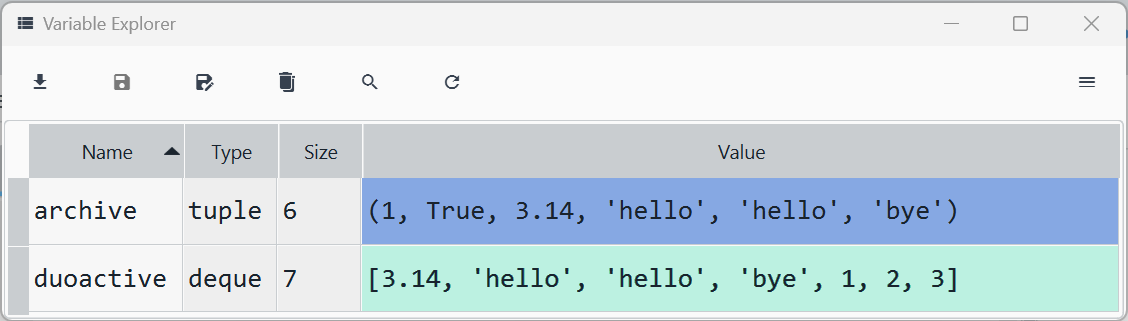
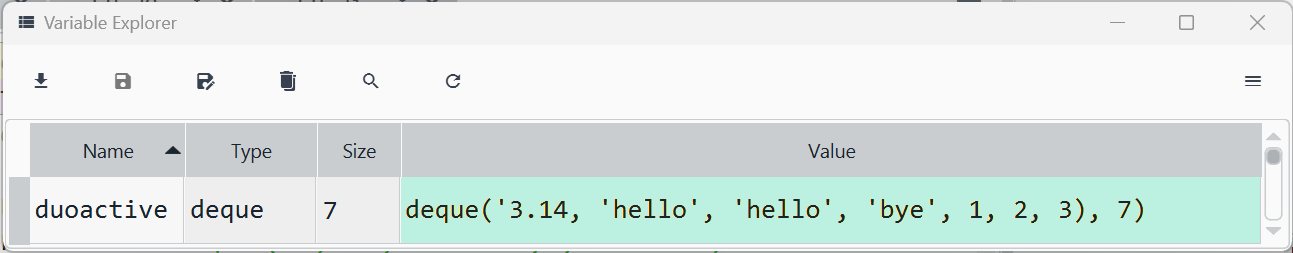
Collections Module Draft

diff --git a/008_collections_module/readme.md b/008_collections_module/readme.md
@@ -18,7 +18,7 @@ The most important classes are listed. The three in lower case were orginally de
 
 ## namedtuple
 
-A ```tuple``` can be conceptualised as an immutable archive of records. Each record only has a numeric index associated with the value and doesn't have a field name to describe what the value is. For example in the following tuple it is hard to distinguish what field is what:
+A ```tuple``` can be conceptualised as an immutable archive of records. Each record only has a numeric index associated with the value and doesn't have a field name to describe what the value is. Foar example in the following tuple it is hard to distinguish what field is what:
 
 ```
 (4, 3, 2023)
@@ -284,11 +284,32 @@ DateTuple(**d1)
 
 ![img_033](./images/img_033.png)
 
-The Spyder Variable Explorer, doesn't show the field names in a ```NamedTuple``` subclass and instead just displays it as an ordinary ```tuple```:
+Unfortunately the Spyder Variable Explorer doesn't fully support the ```collections``` module. The collapsed view shows the generic ```DateTuple``` object:
 
 ![img_034](./images/img_034.png)
 
+It should be updated to reflect the formal string which can be seen when an instance is shown in a cell output:
+
+```
+today
+```
+
+Recall the formal string representation uses the ```__repr__``` data model identifier and the informal string representation uses the ```__str__``` data model identifier which are more typically invoked using Pythons ```builtins``` function ```repr``` and ```str``` respectively:
+
+```
+repr(today)
+str(today)
+```
+
+![img_112](./images/img_112.png)
+
+The expanded view doesn't show the field names in a ```NamedTuple``` subclass and instead just displays it as an ordinary ```tuple```:
+
+![img_113](./images/img_113.png)
+
 It should look like the following:
+
+![img_117](./images/img_117.png)
 
 ![img_035](./images/img_035.png)
 
@@ -317,7 +338,31 @@ duoactive = deque(archive, 7)
 
 ![img_038](./images/img_038.png)
 
-The ```deque``` also doesn't display in the Variable Explorer. It can be conceptualised essentially as a ```list``` with some minor modifications:
+Unfortunately the Spyder Variable Explorer doesn't fully support the ```collections``` module. The collapsed view looks like the following:
+
+![img_114](./images/img_114.png)
+
+The expanded view doesn't show the ```deque```:
+
+![img_116](./images/img_116.png)
+
+It should be updated to reflect the formal string which can be seen when an instance is shown in a cell output:
+
+```
+duoactive
+```
+
+Recall the formal string representation uses the ```__repr__``` data model identifier and the informal string representation uses the ```__str__``` data model identifier which are more typically invoked using Pythons ```builtins``` function ```repr``` and ```str``` respectively:
+
+```
+repr(duoactive)
+str(duoactive)
+```
+
+![img_115](./images/img_115.png)
+
+
+It should be conceptualised essentially as a ```list``` with some minor modifications:
 
 ![img_039](./images/img_039.png)
 
@@ -495,7 +540,7 @@ If the directory function ```dir``` is used, all the identifiers are identical t
 pprint(dir(mapping), compact=True)
 ```
 
-![img_066](./images/img_066.png)
+![img_069](./images/img_069.png)
 
 When attempting to access a missing key, the ```__missing__``` data model is invoked. In the ```dict``` class, the missing ```__datamodel__``` method is not defined so a ```KeyError``` is given. In the ```defaultdict```, ```__missing__``` calls the provided ```default_factory``` callable generating a new ```key: value``` pair.
 
@@ -509,17 +554,34 @@ mapping['blue'] = '#0070C0'
 
 ![img_066](./images/img_066.png)
 
-![img_070](./images/img_070.png)
-
-![img_071](./images/img_071.png)
-
 When a key is indexed that does not exist, the ```default_factory``` callable is used. For example: 
 
 ```
 mapping['yellow']
 ```
 
-![img_072](./images/img_072.png)
+Unfortunately the Spyder Variable Explorer doesn't fully support the ```collections``` module. The collapsed view shows the generic ```defaultdict``` object:
+
+![img_070](./images/img_070.png)
+
+It should be updated to reflect the formal string which can be seen when an instance is shown in a cell output:
+
+```
+mapping
+```
+
+Recall the formal string representation uses the ```__repr__``` data model identifier and the informal string representation uses the ```__str__``` data model identifier which are more typically invoked using Pythons ```builtins``` function ```repr``` and ```str``` respectively:
+
+```
+repr(mapping)
+str(mapping)
+```
+
+![img_118](./images/img_118.png)
+
+![img_071](./images/img_071.png)
+
+The expanded view displays a regular ```dict```, this like the regular ```dict``` should be shown in insertion order:
 
 ![img_073](./images/img_073.png)
 
@@ -541,8 +603,6 @@ mapping['b'] = ['bananas', 'beetroot']
 ```
 
 ![img_075](./images/img_075.png)
-
-![img_076](./images/img_076.png)
 
 ![img_077](./images/img_077.png)
 
@@ -596,8 +656,6 @@ mapping['blue'] = '#0070C0'
 
 ![img_083](./images/img_083.png)
 
-![img_084](./images/img_084.png)
-
 ![img_085](./images/img_085.png)
 
 When a key is indexed that does not exist, the ```default_factory``` callable is used. For example: 
@@ -650,33 +708,234 @@ mapping = defaultdict(lambda: '#000000',
 
 ![img_092](./images/img_092.png)
 
-![img_093](./images/img_093.png)
-
-![img_094](./images/img_094.png)
-
-The formal string representation ```repr``` uses the data model method ```__repr__``` and the informal string representation uses the ```__str__``` data model methods:
+The formal string representation and the informal string representation can be returned using:
 
 ```
 repr(mapping)
 str(mapping)
 ```
 
-They widely follow this format:
-
 ![img_095](./images/img_095.png)
+
+For a ```lambda``` expression these give details about where the function is stored in memory opposed to the ```lambda``` expression itself which would be more useful.
 
 ## Counter
 
+In Python it is quite common to count the number of occurrences in an iterable. For example:
+
+```
+text = ['hello world!']
+```
+
+![img_096](./images/img_096.png)
+
+Conventionally this is done by casting text into a ```set```, recalling a ```set``` can only contain unique values:
+
+```
+unique = set(text)
+```
+
+![img_097](./images/img_097.png)
+
+An initial value of ```0``` is used:
+
+```
+value = 0
+```
+
+![img_098](./images/img_098.png)
+
+And a dictionary is instantiated using the alternative constructor: 
+
+```
+frequency = dict.fromkeys(unique, value)
+```
+
+![img_099](./images/img_099.png)
+
+![img_100](./images/img_100.png)
+
+The frequency of each ```letter``` in the ```word``` can be counted using a ```for``` loop:
+
+```
+for letter in text:
+    frequency[letter] += 1
 
 
+```
+
+![img_101](./images/img_101.png)
+
+![img_102](./images/img_102.png)
+
+![img_103](./images/img_103.png)
+
+This can obtained more coveniently using a ```Counter```:
+
+```
 from collections import Counter
+```
+
+![img_104](./images/img_104.png)
+
+The list of identifiers from the ```Counter``` subclass can be seen by inputting ```Counter.``` followed by 
+a tab ```↹```:
+
+![img_105](./images/img_105.png)
+
+The method resolution order can be seen by using:
+
+```
 Counter.mro()
+```
+
+![img_106](./images/img_106.png)
+
+The ```Counter``` is a subclass of the ```dict``` used for counting occurrences, simplifying the procedure to get a similar data structure above. The input arguments can be seen if the init signature of the ```Counter``` subclass by typing in the subclass name followed by open parenthesis and shift ```⇧``` + tab ```↹```:
+
+![img_107](./images/img_107.png)
+
+The operation:
+
+```
+text = 'hello world!'
+frequency = Counter(text)
+```
+
+![img_108](./images/img_108.png)
+
+![img_109](./images/img_109.png)
+
+Unfortunately the Spyder Variable Explorer doesn't fully support the ```collections``` module. The collapsed view shows the generic ```Counter``` object:
+
+![img_119](./images/img_119.png)
+
+It should be updated to reflect the formal string which can be seen when an instance is shown in a cell output:
+
+```
+frequency
+```
+
+Recall the formal string representation uses the ```__repr__``` data model identifier and the informal string representation uses the ```__str__``` data model identifier which are more typically invoked using Pythons ```builtins``` function ```repr``` and ```str``` respectively:
+
+```
+repr(frequency)
+str(frequency)
+```
+
+![img_120](./images/img_120.png)
+
+![img_121](./images/img_121.png)
+
+The expanded view displays a regular ```dict```, this like the regular ```dict``` should be shown in insertion order. Unlike the more conventional method where an unordered ```set``` was used as an intermediate step and a random insertion order was obtained. In this example the key insertion order is by first appearance of the key. In this case a key was ordered by first appearance of a Unicode character in ```text```:
+
+![img_110](./images/img_110.png)
+
+Most
+
+frequency.items()
+
+frequencies.total()
+
+frequencies.most_common()
+
+frequency.update('hello')
+
+frequency.most_common()
+
+frequency.subtract('bye world!')
+
+frequency.most_common()
+
+
+
+
+forward = frequencies.elements()
+next(forward)
+next(forward)
+
+
+tuple(frequencies.elements())
+
+
+
+
+
+
+
+
+frequencies = Counter(('g', 'r', 'g', 'b', 'r', 'r', 'r'))
+
+
+
 
 
 ## ChainMap
 
+```
+from collections import ChainMap
+```
 
 
+```
+ChainMap.mro()
+```
+
+```
+default = {'textcolor': '#000000', 
+           'font': 'Times New Roman', 
+           'fontsize': 12}
+```
+
+
+```
+settings = {'textcolor': '#FF0000'}
+```
+
+
+```
+config = ChainMap(settings, default)
+```
+
+
+```
+config['textcolor']
+config['font']
+config['fontsize']
+```
+
+
+```
+settings['fontsize'] = 72
+config['fontsize']
+```
+
+
+```
+config['fontsize'] = 48
+settings['fontsize']
+```
+
+
+
+
+The formal ```str``` representation and informal
+
+```
+repr(config)
+str(config)
+```
+
+```
+config.keys()
+config.values()
+config.itemss()
+```
+
+```
+for key in config.keys():
+    config[key]
+```
 
 ## UserString, UserList, UserDict
 
